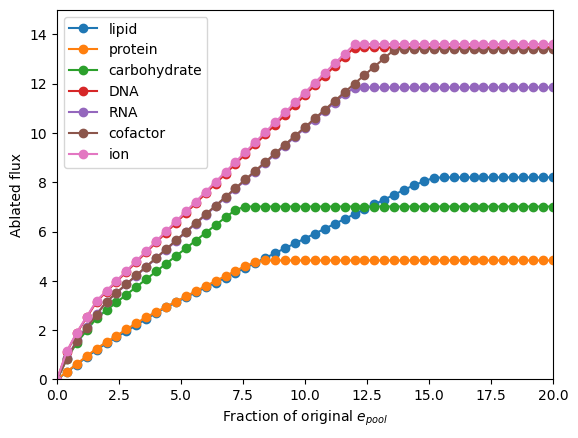
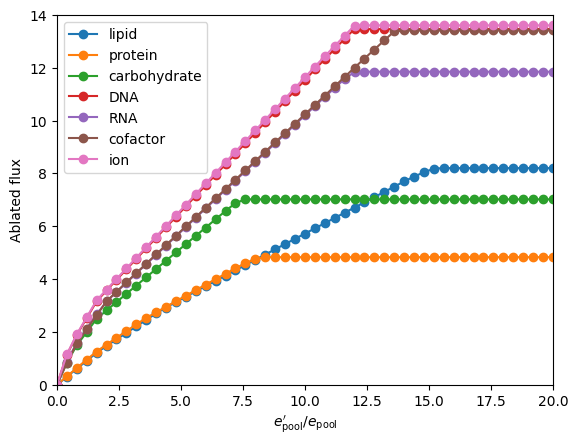
fix(model): merge ratio and gr figs for pool

diff --git a/chapter_model/chapter_model.tex b/chapter_model/chapter_model.tex
@@ -597,34 +597,49 @@ With a smaller $\epool$, the sum of fluxes of enzyme usage pseudoreactions must 
 
 \begin{figure}
   \centering
-  \begin{subfigure}[htpb]{0.45\textwidth}
-   \centering
-   \includegraphics[width=\textwidth]{epool_ec_ratio_shrinkyaxis}
-   \caption{
-   }
-   \label{fig:model-pool-ratio}
-  \end{subfigure}%
-  \begin{subfigure}[htpb]{0.45\textwidth}
-   \centering
-   \includegraphics[width=\textwidth]{epool_ec_ratio_20_shrinkyaxis}
-   \caption{
-   }
-   \label{fig:model-pool-ratio-20}
-  \end{subfigure}
+  % \begin{subfigure}[htpb]{0.45\textwidth}
+  %  \centering
+  %  \includegraphics[width=\textwidth]{epool_ec_ratio_shrinkyaxis}
+  %  \caption{
+  %  }
+  %  \label{fig:model-pool-ratio}
+  % \end{subfigure}%
+  % \begin{subfigure}[htpb]{0.45\textwidth}
+  %  \centering
+  %  \includegraphics[width=\textwidth]{epool_ec_ratio_20_shrinkyaxis}
+  %  \caption{
+  %  }
+  %  \label{fig:model-pool-ratio-20}
+  % \end{subfigure}
+
+  % \begin{subfigure}[htpb]{0.45\textwidth}
+  %  \centering
+  %  \includegraphics[width=\textwidth]{epool_ec_gr}
+  %  \caption{
+  %  }
+  %  \label{fig:model-pool-growthrate}
+  % \end{subfigure}%
+  % \begin{subfigure}[htpb]{0.45\textwidth}
+  %  \centering
+  %  \includegraphics[width=\textwidth]{epool_ec_gr_20}
+  %  \caption{
+  %  }
+  %  \label{fig:model-pool-growthrate-20}
+  % \end{subfigure}
 
   \begin{subfigure}[htpb]{0.45\textwidth}
    \centering
-   \includegraphics[width=\textwidth]{epool_ec_gr}
+   \includegraphics[width=\textwidth]{epool_ec_ratio_gr}
    \caption{
    }
-   \label{fig:model-pool-growthrate}
+   \label{fig:model-pool-ratio-growthrate}
   \end{subfigure}%
   \begin{subfigure}[htpb]{0.45\textwidth}
    \centering
-   \includegraphics[width=\textwidth]{epool_ec_gr_20}
+   \includegraphics[width=\textwidth]{epool_ec_ratio_gr_20}
    \caption{
    }
-   \label{fig:model-pool-growthrate-20}
+   \label{fig:model-pool-ratio-growthrate-20}
   \end{subfigure}
 
   \begin{subfigure}[htpb]{0.45\textwidth}
@@ -645,16 +660,16 @@ With a smaller $\epool$, the sum of fluxes of enzyme usage pseudoreactions must 
   \caption[
     Effect of the size of the proteome pool available for enzymes
   ]{
-    Effect of the size of the proteome pool available for enzymes ($\epool^{\prime}$) on \textbf{(\ref{fig:model-pool-ratio}, \ref{fig:model-pool-ratio-20})} $\ratioabl$, \textbf{(\ref{fig:model-pool-growthrate}, \ref{fig:model-pool-growthrate-20})} the growth rate, and \textbf{(\ref{fig:model-pool-ablated}, \ref{fig:model-pool-ablated-20})} the optimal flux of the ablated biomass reaction $\griabl$ in each round of ablation.
-    \textbf{(\ref{fig:model-pool-ratio})}, \textbf{(\ref{fig:model-pool-growthrate})}, and \textbf{(\ref{fig:model-pool-ablated})} show $\epool^{\prime}/\epool \leq 2$, while
-    \textbf{(\ref{fig:model-pool-ratio-20})}, \textbf{(\ref{fig:model-pool-growthrate-20})}, and \textbf{(\ref{fig:model-pool-ablated-20})} show $\epool^{\prime}/\epool \leq 20$, while
+    Effect of the size of the proteome pool available for enzymes ($\epool^{\prime}$) on \textbf{(\ref{fig:model-pool-ratio-growthrate}, \ref{fig:model-pool-ratio-growthrate-20})} $\ratioabl$, the growth rate, and \textbf{(\ref{fig:model-pool-ablated}, \ref{fig:model-pool-ablated-20})} the optimal flux of the ablated biomass reaction $\griabl$ in each round of ablation.
+    \textbf{(\ref{fig:model-pool-ratio-growthrate})} and \textbf{(\ref{fig:model-pool-ablated})} show $\epool^{\prime}/\epool \leq 2$, while
+    \textbf{(\ref{fig:model-pool-ratio-growthrate-20})} and \textbf{(\ref{fig:model-pool-ablated-20})} show $\epool^{\prime}/\epool \leq 20$.
   }
   \label{fig:model-pool}
 \end{figure}
 
 Fig.\ \ref{fig:model-pool} shows that constraining the proteome pool available for enzymes leads to a greater advantage of sequential biosynthesis of biomass components over parallel biosynthesis.
-This is evidenced by a decreasing $\ratioabl$ ratio if $\epool^{\prime}$ decreases, within the range of $\epool^{\prime}$ that gives realistic growth rates (Fig.\ \ref{fig:model-pool-ratio}).
-Concurrently, as $\epool^{\prime}$ decreases, the wild type growth rate ($\gro$) decreases linearly to zero (Fig.\ \ref{fig:model-pool-growthrate}) and ablated growth rates ($\griabl$) decrease in linear segments independently of each other and of the growth rate (Fig.\ \ref{fig:model-pool-growthrate}).
+This is evidenced by a decreasing $\ratioabl$ ratio if $\epool^{\prime}$ decreases, within the range of $\epool^{\prime}$ that gives realistic growth rates (Fig.\ \ref{fig:model-pool-ratio-growthrate}).
+Concurrently, as $\epool^{\prime}$ decreases, the wild type growth rate ($\gro$) decreases linearly to zero (Fig.\ \ref{fig:model-pool-ratio-growthrate}) and ablated growth rates ($\griabl$) decrease in linear segments independently of each other and of the growth rate (Fig.\ \ref{fig:model-pool-ratio-growthrate}).
 These observations can be explained by considering Eq.\ \ref{eq:model-ratio} and modelling changes in $\gro$ and $\griabl$ with respect to $\epool^{\prime}/\epool$ as linear equations (Appendix \ref{append:model-pool}).
 
 
